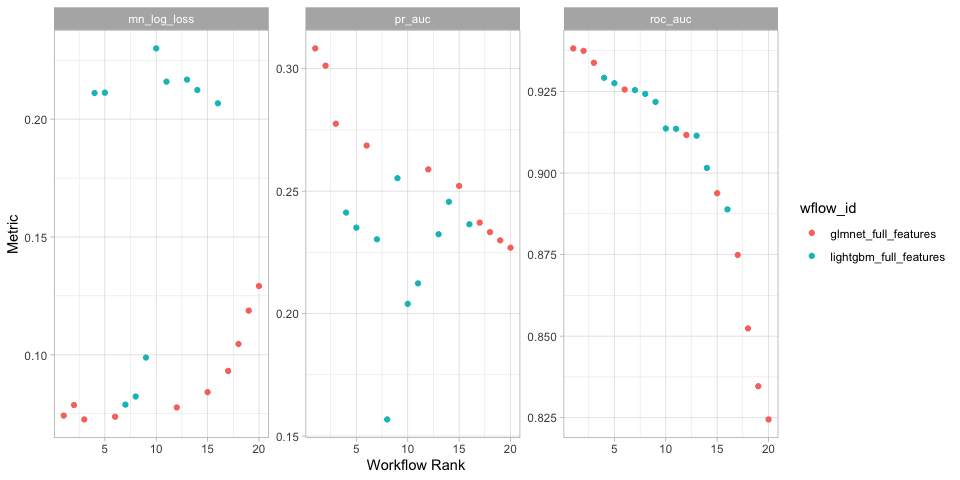
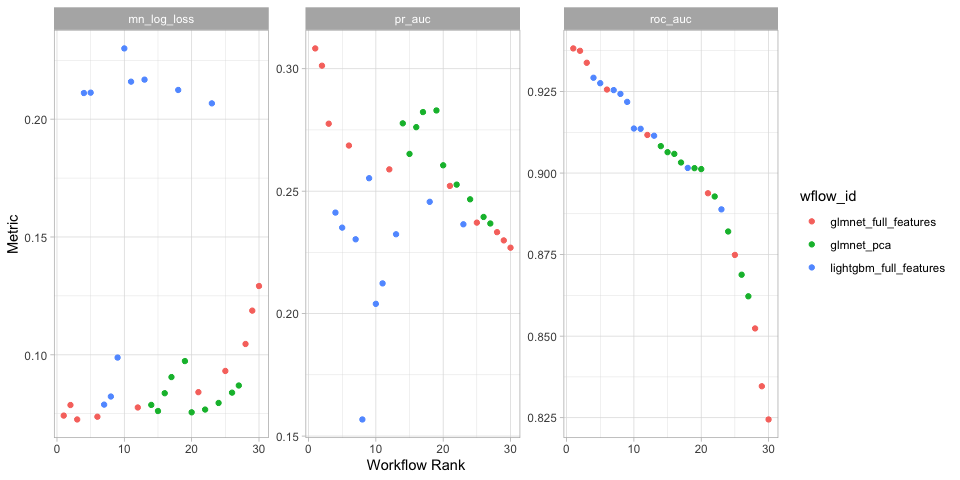
added pca to run

diff --git a/model_report.md b/model_report.md
@@ -44,8 +44,8 @@ transparent, responsible reporting for a trained machine learning model.
 ## Model details
 
 - A glmnet classification modeling workflow using 15 features
-- Version 20240814T171719Z-6e357 of this model was published at
-  2024-08-14 12:17:19
+- Version 20240814T203541Z-60514 of this model was published at
+  2024-08-14 15:35:41
 
 ## Model candidates
 
@@ -66,17 +66,20 @@ valid_metrics |>
 
 <div>
 
-<div id="wktazbbyhr" style="padding-left:0px;padding-right:0px;padding-top:10px;padding-bottom:10px;overflow-x:auto;overflow-y:auto;width:auto;height:auto;">
+<div id="hhsujfouku" style="padding-left:0px;padding-right:0px;padding-top:10px;padding-bottom:10px;overflow-x:auto;overflow-y:auto;width:auto;height:auto;">
   &#10;  
 
 | wflow_id               | .config               | .metric     |  mean | std_err |   n | preprocessor | model        | rank |
 |:-----------------------|:----------------------|:------------|------:|--------:|----:|:-------------|:-------------|-----:|
 | glmnet_full_features   | Preprocessor1_Model08 | mn_log_loss | 0.073 |      NA |   1 | recipe       | logistic_reg |    1 |
-| lightgbm_full_features | Preprocessor1_Model04 | mn_log_loss | 0.079 |      NA |   1 | recipe       | boost_tree   |    2 |
+| glmnet_pca             | Preprocessor1_Model05 | mn_log_loss | 0.076 |      NA |   1 | recipe       | logistic_reg |    2 |
+| lightgbm_full_features | Preprocessor1_Model04 | mn_log_loss | 0.079 |      NA |   1 | recipe       | boost_tree   |    3 |
 | glmnet_full_features   | Preprocessor1_Model08 | pr_auc      | 0.278 |      NA |   1 | recipe       | logistic_reg |    1 |
-| lightgbm_full_features | Preprocessor1_Model04 | pr_auc      | 0.230 |      NA |   1 | recipe       | boost_tree   |    2 |
+| glmnet_pca             | Preprocessor1_Model05 | pr_auc      | 0.261 |      NA |   1 | recipe       | logistic_reg |    2 |
+| lightgbm_full_features | Preprocessor1_Model04 | pr_auc      | 0.230 |      NA |   1 | recipe       | boost_tree   |    3 |
 | glmnet_full_features   | Preprocessor1_Model08 | roc_auc     | 0.934 |      NA |   1 | recipe       | logistic_reg |    1 |
-| lightgbm_full_features | Preprocessor1_Model04 | roc_auc     | 0.925 |      NA |   1 | recipe       | boost_tree   |    2 |
+| glmnet_pca             | Preprocessor1_Model05 | roc_auc     | 0.901 |      NA |   1 | recipe       | logistic_reg |    2 |
+| lightgbm_full_features | Preprocessor1_Model04 | roc_auc     | 0.925 |      NA |   1 | recipe       | boost_tree   |    3 |
 
 </div>
 
@@ -124,7 +127,7 @@ test_data |>
 
 <div>
 
-<div id="fpedxoxhzq" style="padding-left:0px;padding-right:0px;padding-top:10px;padding-bottom:10px;overflow-x:auto;overflow-y:auto;width:auto;height:auto;">
+<div id="vddafzknpp" style="padding-left:0px;padding-right:0px;padding-top:10px;padding-bottom:10px;overflow-x:auto;overflow-y:auto;width:auto;height:auto;">
   &#10;  
 
 | n    |
@@ -164,7 +167,7 @@ preds |>
 
 <div>
 
-<div id="ritcswbhkp" style="padding-left:0px;padding-right:0px;padding-top:10px;padding-bottom:10px;overflow-x:auto;overflow-y:auto;width:auto;height:auto;">
+<div id="vyyzcnceoa" style="padding-left:0px;padding-right:0px;padding-top:10px;padding-bottom:10px;overflow-x:auto;overflow-y:auto;width:auto;height:auto;">
   &#10;  
 
 | .metric     | .estimator | .estimate |
@@ -215,7 +218,7 @@ preds |>
 
 <div>
 
-<div id="myxhcuvata" style="padding-left:0px;padding-right:0px;padding-top:10px;padding-bottom:10px;overflow-x:auto;overflow-y:auto;width:auto;height:auto;">
+<div id="ftcyqttkbf" style="padding-left:0px;padding-right:0px;padding-top:10px;padding-bottom:10px;overflow-x:auto;overflow-y:auto;width:auto;height:auto;">
   &#10;  
 
 | game_id | name                                                                | yearpublished | .pred_yes | own |
